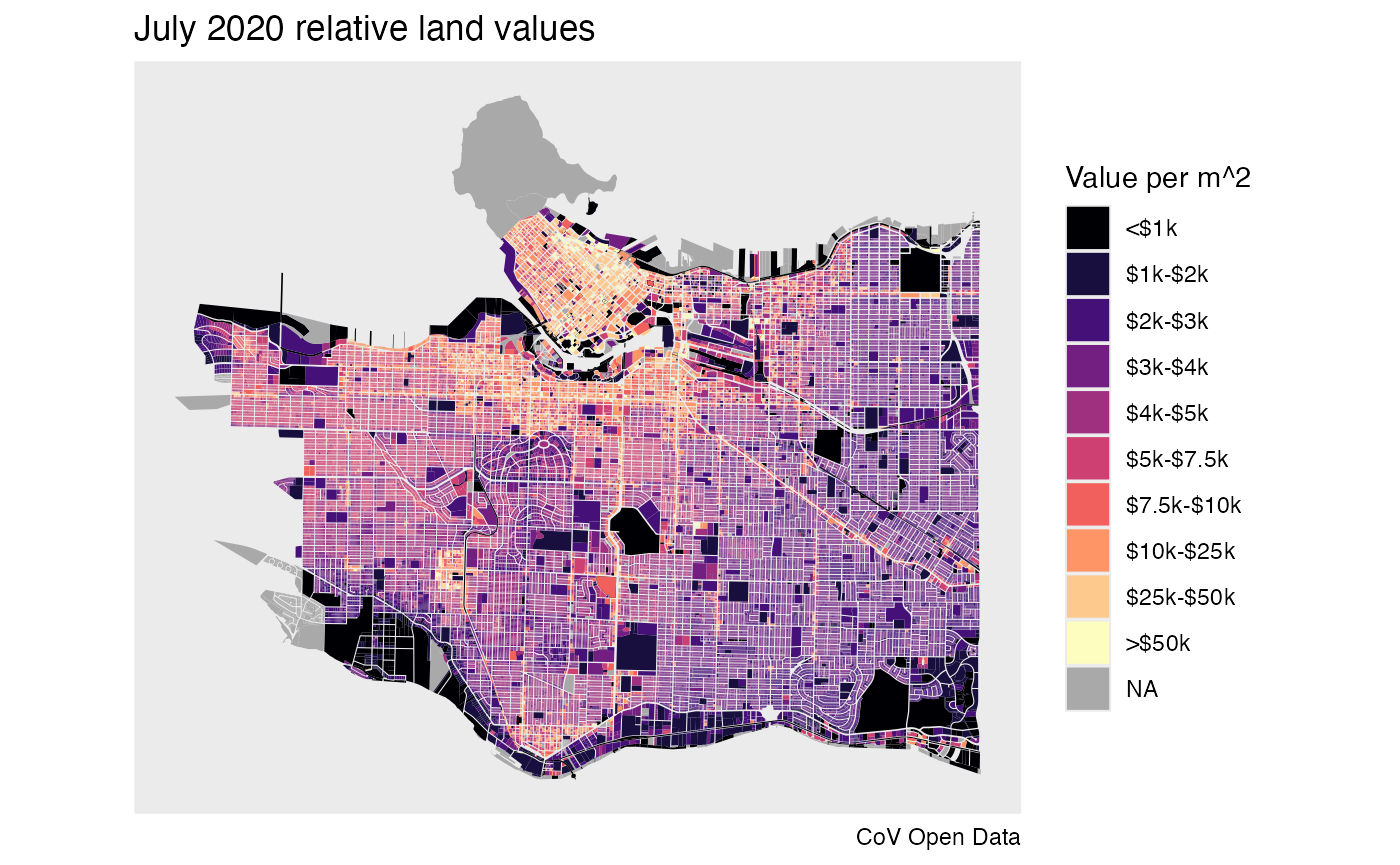
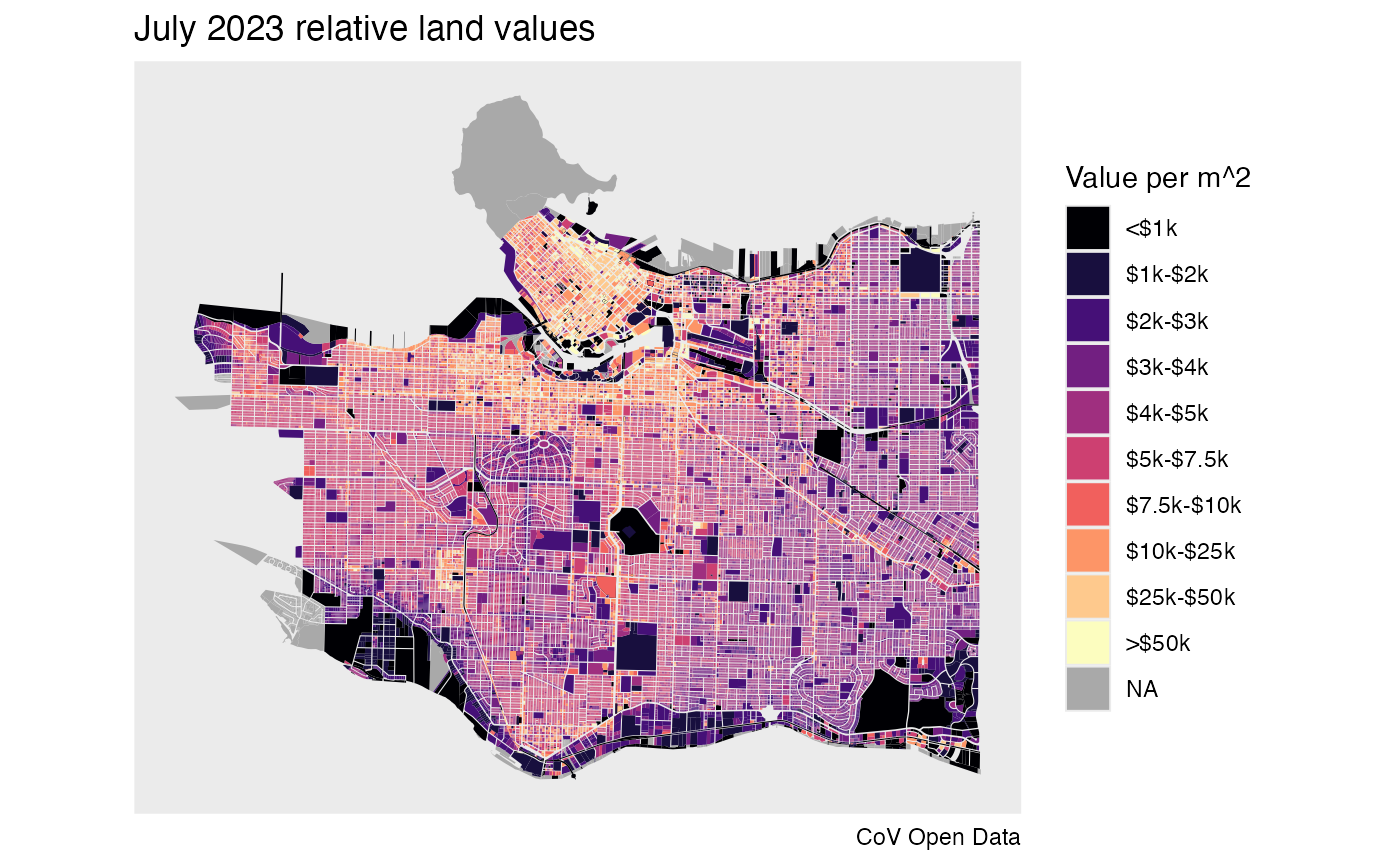
update vignette and cran comments/news

Changed region(s): [[0.1536, 0.2497, 0.7064, 0.874], [0.3993, 0.2497, 0.43, 0.2809]]

diff --git a/docs/articles/Demo.html b/docs/articles/Demo.html
@@ -117,8 +117,8 @@ Bergmann</h4>
 <span><span class="co">#&gt;   <span style="color: #949494; font-style: italic;">&lt;chr&gt;</span>                         <span style="color: #949494; font-style: italic;">&lt;chr&gt;</span>                        </span></span>
 <span><span class="co">#&gt; <span style="color: #BCBCBC;">1</span> property-tax-report-2016-2019 Property tax report 2016-2019</span></span>
 <span><span class="co">#&gt; <span style="color: #BCBCBC;">2</span> property-tax-report-2011-2015 Property tax report 2011-2015</span></span>
-<span><span class="co">#&gt; <span style="color: #BCBCBC;">3</span> property-tax-report-2006-2010 Property tax report 2006-2010</span></span>
-<span><span class="co">#&gt; <span style="color: #BCBCBC;">4</span> property-tax-report           Property tax report</span></span></code></pre></div>
+<span><span class="co">#&gt; <span style="color: #BCBCBC;">3</span> property-tax-report           Property tax report          </span></span>
+<span><span class="co">#&gt; <span style="color: #BCBCBC;">4</span> property-tax-report-2006-2010 Property tax report 2006-2010</span></span></code></pre></div>
 </div>
 <div class="section level3">
 <h3 id="get-metadata-for-tax-report">Get metadata for tax report<a class="anchor" aria-label="anchor" href="#get-metadata-for-tax-report"></a>
@@ -149,15 +149,16 @@ Bergmann</h4>
 <span>  <span class="fu"><a href="https://rdrr.io/r/base/lapply.html" class="external-link">lapply</a></span><span class="op">(</span><span class="kw">function</span><span class="op">(</span><span class="va">ds</span><span class="op">)</span></span>
 <span>    <span class="fu"><a href="../reference/aggregate_cov_data.html">aggregate_cov_data</a></span><span class="op">(</span><span class="va">ds</span>,</span>
 <span>                       group_by<span class="op">=</span><span class="st">"tax_assessment_year as Year"</span>,</span>
-<span>                       where<span class="op">=</span><span class="st">"zoning_district like 'RS-'"</span>,</span>
+<span>                       where<span class="op">=</span><span class="st">"zoning_district like 'RS-' or zoning_district like 'R1-1'"</span>,</span>
 <span>                       select<span class="op">=</span><span class="st">"sum(current_land_value) as Land, sum(current_improvement_value) as Building"</span><span class="op">)</span><span class="op">)</span> <span class="op"><a href="https://magrittr.tidyverse.org/reference/pipe.html" class="external-link">%&gt;%</a></span> </span>
 <span>  <span class="fu"><a href="https://dplyr.tidyverse.org/reference/bind_rows.html" class="external-link">bind_rows</a></span><span class="op">(</span><span class="op">)</span> <span class="op"><a href="https://magrittr.tidyverse.org/reference/pipe.html" class="external-link">%&gt;%</a></span></span>
 <span>  <span class="fu"><a href="https://dplyr.tidyverse.org/reference/mutate.html" class="external-link">mutate</a></span><span class="op">(</span>Date<span class="op">=</span><span class="fu"><a href="https://rdrr.io/r/base/as.Date.html" class="external-link">as.Date</a></span><span class="op">(</span><span class="fu"><a href="https://rdrr.io/r/base/paste.html" class="external-link">paste0</a></span><span class="op">(</span><span class="fu"><a href="https://rdrr.io/r/base/integer.html" class="external-link">as.integer</a></span><span class="op">(</span><span class="va">Year</span><span class="op">)</span><span class="op">-</span><span class="fl">1</span>,<span class="st">"-07-01"</span><span class="op">)</span><span class="op">)</span><span class="op">)</span> <span class="op"><a href="https://magrittr.tidyverse.org/reference/pipe.html" class="external-link">%&gt;%</a></span></span>
 <span>  <span class="fu"><a href="https://tidyr.tidyverse.org/reference/pivot_longer.html" class="external-link">pivot_longer</a></span><span class="op">(</span><span class="fu"><a href="https://rdrr.io/r/base/c.html" class="external-link">c</a></span><span class="op">(</span><span class="st">"Land"</span>,<span class="st">"Building"</span><span class="op">)</span><span class="op">)</span> <span class="op"><a href="https://magrittr.tidyverse.org/reference/pipe.html" class="external-link">%&gt;%</a></span></span>
 <span>  <span class="fu"><a href="https://ggplot2.tidyverse.org/reference/ggplot.html" class="external-link">ggplot</a></span><span class="op">(</span><span class="fu"><a href="https://ggplot2.tidyverse.org/reference/aes.html" class="external-link">aes</a></span><span class="op">(</span>x<span class="op">=</span><span class="va">Year</span>,y<span class="op">=</span><span class="va">value</span>,color<span class="op">=</span><span class="va">name</span>,group<span class="op">=</span><span class="va">name</span><span class="op">)</span><span class="op">)</span> <span class="op">+</span></span>
+<span>  <span class="fu"><a href="https://ggplot2.tidyverse.org/reference/geom_point.html" class="external-link">geom_point</a></span><span class="op">(</span>shape<span class="op">=</span><span class="fl">21</span><span class="op">)</span> <span class="op">+</span></span>
 <span>  <span class="fu"><a href="https://ggplot2.tidyverse.org/reference/geom_path.html" class="external-link">geom_line</a></span><span class="op">(</span><span class="op">)</span> <span class="op">+</span></span>
 <span>  <span class="fu"><a href="https://ggplot2.tidyverse.org/reference/scale_continuous.html" class="external-link">scale_y_continuous</a></span><span class="op">(</span>labels<span class="op">=</span><span class="kw">function</span><span class="op">(</span><span class="va">x</span><span class="op">)</span><span class="fu"><a href="https://rdrr.io/r/base/paste.html" class="external-link">paste0</a></span><span class="op">(</span><span class="st">"$"</span>,<span class="va">x</span><span class="op">/</span><span class="fl">1000000000</span>,<span class="st">"Bn"</span><span class="op">)</span><span class="op">)</span> <span class="op">+</span></span>
-<span>  <span class="fu"><a href="https://ggplot2.tidyverse.org/reference/labs.html" class="external-link">labs</a></span><span class="op">(</span>title<span class="op">=</span><span class="st">"City of Vancouver RS zoned land values"</span>,color<span class="op">=</span><span class="st">""</span>,y<span class="op">=</span><span class="st">"Aggregate value (nominal)"</span><span class="op">)</span></span>
+<span>  <span class="fu"><a href="https://ggplot2.tidyverse.org/reference/labs.html" class="external-link">labs</a></span><span class="op">(</span>title<span class="op">=</span><span class="st">"City of Vancouver RS/R1-1 zoned land values"</span>,color<span class="op">=</span><span class="st">""</span>,y<span class="op">=</span><span class="st">"Aggregate value (nominal)"</span><span class="op">)</span></span>
 <span><span class="co">#&gt; Downloading data from CoV Open Data portal</span></span>
 <span><span class="co">#&gt; Downloading data from CoV Open Data portal</span></span>
 <span><span class="co">#&gt; Downloading data from CoV Open Data portal</span></span>
@@ -169,7 +170,7 @@ Bergmann</h4>
 </h3>
 <div class="sourceCode" id="cb5"><pre class="downlit sourceCode r">
 <code class="sourceCode R"><span><span class="va">tax_data</span> <span class="op">&lt;-</span> <span class="fu"><a href="../reference/get_cov_data.html">get_cov_data</a></span><span class="op">(</span>dataset_id <span class="op">=</span> <span class="st">"property-tax-report"</span>,</span>
-<span>                         where<span class="op">=</span><span class="st">"tax_assessment_year='2021'"</span>,</span>
+<span>                         where<span class="op">=</span><span class="st">"tax_assessment_year='2024'"</span>,</span>
 <span>                         select <span class="op">=</span> <span class="st">"current_land_value, land_coordinate as tax_coord"</span><span class="op">)</span></span>
 <span><span class="co">#&gt; Downloading data from CoV Open Data portal</span></span>
 <span><span class="co">#&gt; Warning: There was 1 warning in `mutate()`.</span></span>
@@ -194,7 +195,7 @@ Bergmann</h4>
 <span><span class="fu"><a href="https://ggplot2.tidyverse.org/reference/ggplot.html" class="external-link">ggplot</a></span><span class="op">(</span><span class="va">plot_data</span><span class="op">)</span> <span class="op">+</span></span>
 <span>  <span class="fu"><a href="https://ggplot2.tidyverse.org/reference/ggsf.html" class="external-link">geom_sf</a></span><span class="op">(</span><span class="fu"><a href="https://ggplot2.tidyverse.org/reference/aes.html" class="external-link">aes</a></span><span class="op">(</span>fill<span class="op">=</span><span class="va">rlvd</span><span class="op">)</span>,color<span class="op">=</span><span class="cn">NA</span><span class="op">)</span> <span class="op">+</span></span>
 <span>  <span class="fu"><a href="https://ggplot2.tidyverse.org/reference/scale_viridis.html" class="external-link">scale_fill_viridis_d</a></span><span class="op">(</span>option<span class="op">=</span><span class="st">"magma"</span>,na.value<span class="op">=</span><span class="st">"darkgrey"</span><span class="op">)</span> <span class="op">+</span></span>
-<span>  <span class="fu"><a href="https://ggplot2.tidyverse.org/reference/labs.html" class="external-link">labs</a></span><span class="op">(</span>title<span class="op">=</span><span class="st">"July 2020 relative land values"</span>,fill<span class="op">=</span><span class="st">"Value per m^2"</span>,caption<span class="op">=</span><span class="st">"CoV Open Data"</span><span class="op">)</span> <span class="op">+</span></span>
+<span>  <span class="fu"><a href="https://ggplot2.tidyverse.org/reference/labs.html" class="external-link">labs</a></span><span class="op">(</span>title<span class="op">=</span><span class="st">"July 2023 relative land values"</span>,fill<span class="op">=</span><span class="st">"Value per m^2"</span>,caption<span class="op">=</span><span class="st">"CoV Open Data"</span><span class="op">)</span> <span class="op">+</span></span>
 <span>  <span class="fu"><a href="https://ggplot2.tidyverse.org/reference/ggsf.html" class="external-link">coord_sf</a></span><span class="op">(</span>datum<span class="op">=</span><span class="cn">NA</span><span class="op">)</span></span></code></pre></div>
 <p><img src="Demo_files/figure-html/unnamed-chunk-6-1.png" width="700"></p>
 </div>

diff --git a/docs/index.html b/docs/index.html
@@ -182,9 +182,9 @@
 <div class="dev-status">
 <h2 data-toc-skip>Dev status</h2>
 <ul class="list-unstyled">
-<li><a href="https://github.com/mountainMath/VancouvR/actions" class="external-link"><img src="https://github.com/mountainMath/VancouvR/workflows/R-CMD-check/badge.svg" alt="R-CMD-check"></a></li>
 <li><a href="https://cran.r-project.org/package=VancouvR" class="external-link"><img src="http://www.r-pkg.org/badges/version/VancouvR" alt="CRAN_Status_Badge"></a></li>
 <li><a href="https://cranlogs.r-pkg.org/badges/VancouvR" class="external-link"><img src="https://cranlogs.r-pkg.org/badges/VancouvR" alt="CRAN_Downloads_Badge"></a></li>
+<li><a href="https://github.com/mountainMath/VancouvR/actions/workflows/R-CMD-check.yaml" class="external-link"><img src="https://github.com/mountainMath/VancouvR/actions/workflows/R-CMD-check.yaml/badge.svg" alt="R-CMD-check"></a></li>
 </ul>
 </div>
 

diff --git a/docs/news/index.html b/docs/news/index.html
@@ -51,6 +51,13 @@
     </div>
 
     <div class="section level2">
+<h2 class="page-header" data-toc-text="0.1.8" id="vancouvr-018">VancouvR 0.1.8<a class="anchor" aria-label="anchor" href="#vancouvr-018"></a></h2>
+<div class="section level3">
+<h3 id="minor-changes-0-1-8">Minor changes<a class="anchor" aria-label="anchor" href="#minor-changes-0-1-8"></a></h3>
+<ul><li>automatically determin if a dataset has a spatial component and transform to sf object if it does</li>
+</ul></div>
+</div>
+    <div class="section level2">
 <h2 class="page-header" data-toc-text="0.1.7" id="vancouvr-017">VancouvR 0.1.7<small>2021-10-21</small><a class="anchor" aria-label="anchor" href="#vancouvr-017"></a></h2>
 <div class="section level3">
 <h3 id="minor-changes-0-1-7">Minor changes<a class="anchor" aria-label="anchor" href="#minor-changes-0-1-7"></a></h3>

diff --git a/NEWS.md b/NEWS.md
@@ -1,3 +1,8 @@
+## VancouvR 0.1.8
+
+### Minor changes
+- automatically determin if a dataset has a spatial component and transform to sf object if it does
+
 ## VancouvR 0.1.7
 
 ### Minor changes
